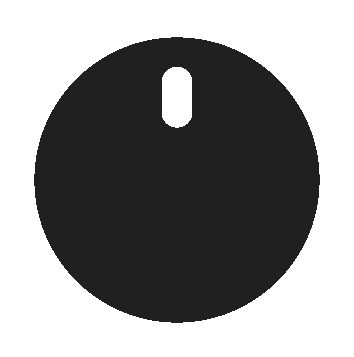
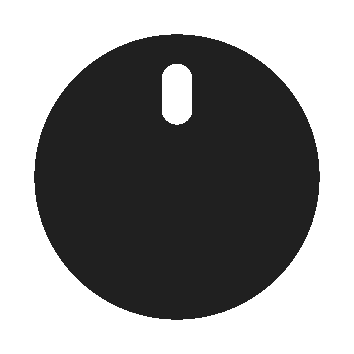
add wheel event and align knob image

diff --git a/script.js b/script.js
@@ -1,7 +1,7 @@
 let xKnob = document.querySelector(".xKnob");
 let xAngle = 0;
 
-xKnob.addEventListener('click', function() {
+xKnob.addEventListener('wheel', function() {
 
     function rotateX() {
         xAngle += 30;
@@ -14,7 +14,7 @@ xKnob.addEventListener('click', function() {
 let yKnob = document.querySelector(".yKnob");
 let yAngle = 0;
 
-yKnob.addEventListener('click', function() {
+yKnob.addEventListener('wheel', function() {
 
     function rotateY() {
         yAngle += 30;
@@ -27,7 +27,7 @@ yKnob.addEventListener('click', function() {
 let rKnob = document.querySelector(".rKnob");
 let rAngle = 0;
 
-rKnob.addEventListener('click', function() {
+rKnob.addEventListener('wheel', function() {
 
     function rotateR() {
         rAngle += 30;
@@ -40,7 +40,7 @@ rKnob.addEventListener('click', function() {
 let gKnob = document.querySelector(".gKnob");
 let gAngle = 0;
 
-gKnob.addEventListener('click', function() {
+gKnob.addEventListener('wheel', function() {
 
     function rotateG() {
         gAngle += 30;
@@ -53,7 +53,7 @@ gKnob.addEventListener('click', function() {
 let bKnob = document.querySelector(".bKnob");
 let bAngle = 0;
 
-bKnob.addEventListener('click', function() {
+bKnob.addEventListener('wheel', function() {
 
     function rotateB() {
         bAngle += 30;

diff --git a/style.css b/style.css
@@ -51,7 +51,7 @@ body {
 }
 
 .colorKnobs p {
-    top: 13px;
+    top: 11px;
 }
 
 .xColumn p, .yColumn p {
